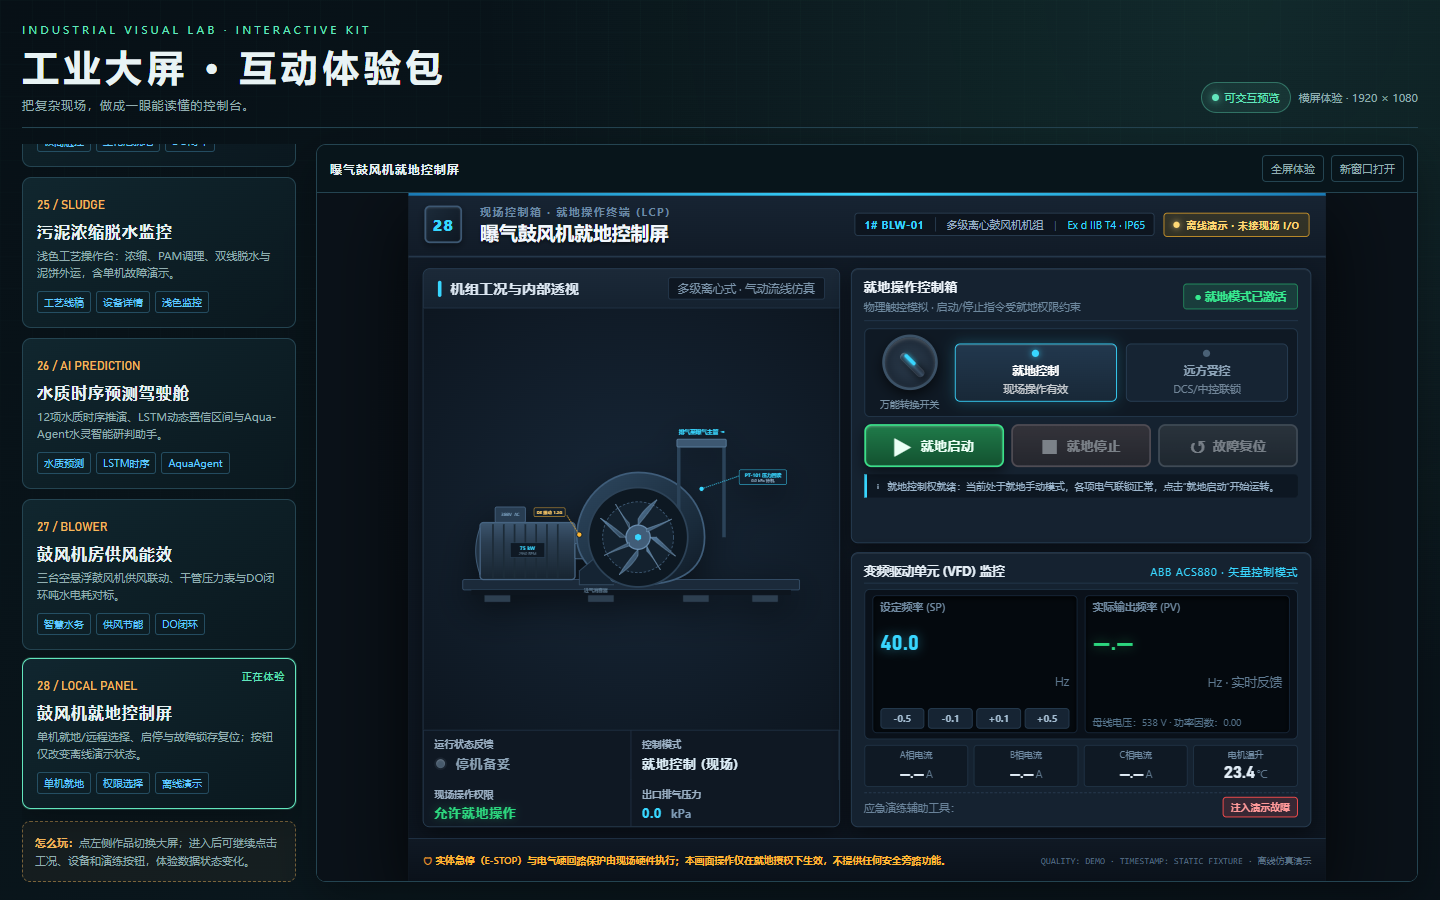
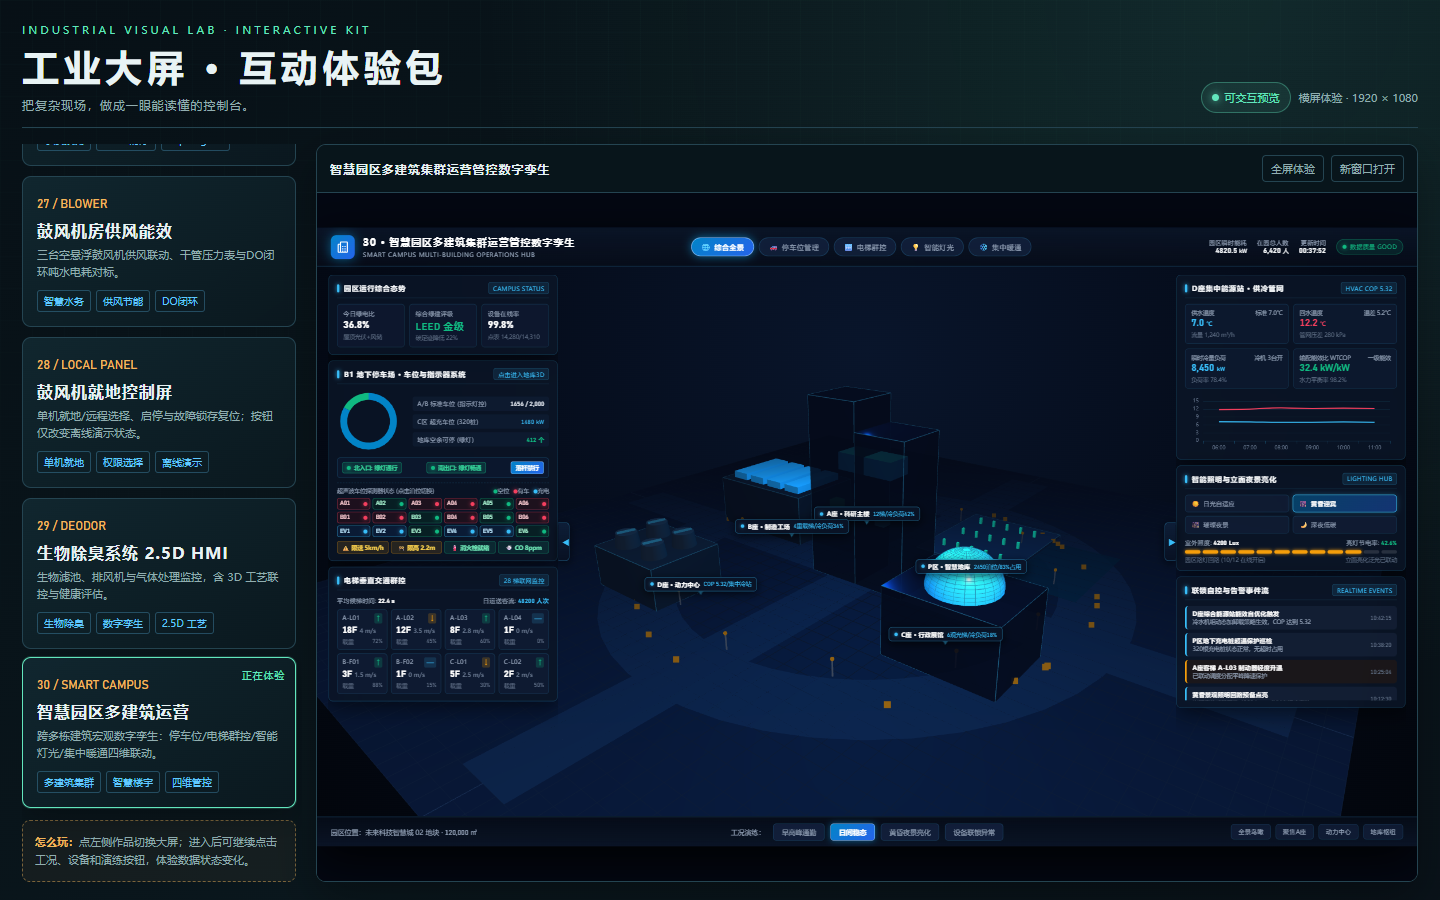
docs(showcase): 集成29与30号场景至体验包并同步回归测试与中英文画廊

diff --git a/apps/showcase/index.html b/apps/showcase/index.html
@@ -57,6 +57,8 @@ button{font:inherit;color:inherit}
       <button class="card" data-src="../../scenarios/water-treatment/26-东湖智慧水质时序预测与Aqua-Agent数字驾驶舱.html" data-title="东湖智慧水质时序预测与Aqua-Agent数字驾驶舱"><span class="index">26 / AI PREDICTION</span><h2>水质时序预测驾驶舱</h2><p>12项水质时序推演、LSTM动态置信区间与Aqua-Agent水灵智能研判助手。</p><div class="tags"><span>水质预测</span><span>LSTM时序</span><span>AquaAgent</span></div></button>
       <button class="card" data-src="../../scenarios/water-treatment/27-曝气鼓风机房智能供风能效驾驶舱.html" data-title="曝气鼓风机房智能供风能效驾驶舱"><span class="index">27 / BLOWER</span><h2>鼓风机房供风能效</h2><p>三台空悬浮鼓风机供风联动、干管压力表与DO闭环吨水电耗对标。</p><div class="tags"><span>智慧水务</span><span>供风节能</span><span>DO闭环</span></div></button>
       <button class="card" data-src="../../scenarios/water-treatment/28-曝气鼓风机就地控制屏.html" data-title="曝气鼓风机就地控制屏"><span class="index">28 / LOCAL PANEL</span><h2>鼓风机就地控制屏</h2><p>单机就地/远程选择、启停与故障锁存复位；按钮仅改变离线演示状态。</p><div class="tags"><span>单机就地</span><span>权限选择</span><span>离线演示</span></div></button>
+      <button class="card" data-src="../../scenarios/water-treatment/29-生物除臭系统2.5D数字孪生HMI.html" data-title="生物除臭系统 2.5D 数字孪生 HMI"><span class="index">29 / DEODOR</span><h2>生物除臭系统 2.5D HMI</h2><p>生物滤池、排风机与气体处理监控，含 3D 工艺联控与健康评估。</p><div class="tags"><span>生物除臭</span><span>数字孪生</span><span>2.5D 工艺</span></div></button>
+      <button class="card" data-src="../../scenarios/building-automation/30-智慧园区多建筑集群运营管控数字孪生.html" data-title="智慧园区多建筑集群运营管控数字孪生"><span class="index">30 / SMART CAMPUS</span><h2>智慧园区多建筑运营</h2><p>跨多栋建筑宏观数字孪生：停车位/电梯群控/智能灯光/集中暖通四维联动。</p><div class="tags"><span>多建筑集群</span><span>智慧楼宇</span><span>四维管控</span></div></button>
       <div class="tip"><b>怎么玩：</b>点左侧作品切换大屏；进入后可继续点击工况、设备和演练按钮，体验数据状态变化。</div>
     </aside>
     <section class="stage" id="stage"><div class="stage-bar"><strong id="stageTitle">A²/O 脱氮除磷精准调控驾驶舱</strong><div class="stage-actions"><button id="enterFullscreen">全屏体验</button><button id="openNew">新窗口打开</button></div></div><div class="viewport"><iframe id="screen" title="工业大屏互动预览" src="../../scenarios/water-treatment/01-A2O脱氮除磷精准调控驾驶舱.html"></iframe><div class="empty" id="empty" hidden>正在加载互动大屏…</div></div></section>

diff --git a/tests/interaction_check.py b/tests/interaction_check.py
@@ -605,6 +605,7 @@ with sync_playwright() as playwright:
         assert p.get_by_role("button", name="频率加 0.5 赫兹").is_enabled()
 
         p.set_viewport_size({"width": 1024, "height": 768})
+        p.wait_for_timeout(300)
         compact = p.locator("#screen").bounding_box()
         assert compact and compact["width"] == 1024 and compact["height"] == 768
         for selector in [".frequency-panel", ".command-grid", ".signal-panel", ".bottom-bar"]:
@@ -628,12 +629,12 @@ with sync_playwright() as playwright:
     showcase.route("http://**/*", lambda route: route.abort())
     showcase.route("https://**/*", lambda route: route.abort())
     showcase.goto((ROOT / "apps" / "showcase" / "index.html").as_uri(), wait_until="networkidle")
-    assert showcase.locator(".card").count() == 28
-    latest_card = showcase.locator('.card[data-src*="28-"]')
+    assert showcase.locator(".card").count() == 30
+    latest_card = showcase.locator('.card[data-src*="30-"]')
     latest_card.scroll_into_view_if_needed()
     assert latest_card.is_visible()
     latest_card.click()
-    assert "就地控制屏" in showcase.locator("#stageTitle").inner_text()
+    assert "多建筑" in showcase.locator("#stageTitle").inner_text()
     portrait = browser.new_page(viewport={"width": 390, "height": 844})
     portrait.goto((ROOT / "apps" / "showcase" / "index.html").as_uri(), wait_until="domcontentloaded")
     assert portrait.locator(".rotate").is_visible()

diff --git a/README.md b/README.md
@@ -1,6 +1,6 @@
 # Industrial Dashboard Studio
 
-> 工业大屏产品化工作区 · 28 套离线可运行样板 + 可复用运行时 + SCADA 设计器 + 6 个可交付 Skill
+> 工业大屏产品化工作区 · 30 套离线可运行样板 + 可复用运行时 + SCADA 设计器 + 6 个可交付 Skill
 
 [![License: MIT](https://img.shields.io/badge/License-MIT-blue.svg)](LICENSE)
 [![Canvas: 1920×1080](https://img.shields.io/badge/canvas-1920%C3%971080-0ea5e9)](docs/architecture.md)
@@ -36,11 +36,11 @@
 
 | 入口 | 预览 |
 |------|------|
-| **Showcase 横屏互动入口 (28 套全量)** `apps/showcase/index.html` | ![showcase](docs/screenshots/showcase.png) |
+| **Showcase 横屏互动入口 (30 套全量)** `apps/showcase/index.html` | ![showcase](docs/screenshots/showcase.png) |
 | **SCADA 场景设计器** `apps/scada-designer/index.html` | ![scada-designer](docs/screenshots/scada-designer.png) |
 
 <details open>
-<summary><b>展开查看 28 套场景全量分类与截图</b></summary>
+<summary><b>展开查看 30 套场景全量分类与截图</b></summary>
 
 ### 单机就地操作 · 鼓风机控制屏（最新上线）
 
@@ -78,6 +78,7 @@
 | 场景 | 文件 | 预览 |
 |------|------|------|
 | 22 智能楼宇自控与空间微气候数字孪生 | `scenarios/building-automation/22-智能楼宇自控与空间微气候数字孪生.html` | ![22](docs/screenshots/22-building-automation.png) |
+| 30 智慧园区多建筑集群运营管控数字孪生 | `scenarios/building-automation/30-智慧园区多建筑集群运营管控数字孪生.html` | ![30](docs/screenshots/30-smart-campus-multi-building.png) |
 
 ### 水处理 · 工艺驾驶舱与全流程 SCADA
 
@@ -106,6 +107,7 @@
 | 18 园区供水管网多节点平衡监控数字看板 | `scenarios/water-treatment/18-园区供水管网多节点平衡监控数字看板.html` | 水力平衡拓扑 |
 | 19 PAM 三槽式全自动加药熟化微单元 | `scenarios/water-treatment/19-PAM三槽式全自动加药熟化微单元.html` | 精密加药微单元 |
 | 20 紫外线渠式消毒与余氯闭环调控微单元 | `scenarios/water-treatment/20-紫外线渠式消毒与余氯闭环调控微单元.html` | 明渠紫外消毒 |
+| 29 生物除臭系统 2.5D 数字孪生 HMI | `scenarios/water-treatment/29-生物除臭系统2.5D数字孪生HMI.html` | ![29](docs/screenshots/29-bio-deodorization-twin.png) |
 
 ### 设备维护 / 反应安全 / 连续分离
 
@@ -261,7 +263,7 @@ open apps/scada-designer/index.html
 - **架构**：5 路粗格栅渠液位差监视、4 台大流量混流提升泵与 7 台潜污泵群控，集成工业级西门子/博途风格 Faceplate 微操弹窗与 SBO（Select-Before-Operate）双重确认防误闭环。
 - **文件**：`scenarios/water-treatment/21-粗格栅及进水提升泵房数字孪生SCADA.html`
 
-### 22 智能楼宇自控与空间微气候数字孪生（全新新增）
+### 22 智能楼宇自控与空间微气候数字孪生（全新全面精细化重构）
 - **布局**：`spatial-twin` — 顶部楼层与动环状态栏，中央 2.5D/3D 空间孪生视界，左翼能源动力与舒适度面板，右翼 iCooling 智控与空间微气候中枢，右下垂直楼层快速滑块，左右侧栏支持平滑无折行展开/收拢。
 - **信息问题**：高层建筑微气候分布如何、是否存在局部热岛过热、VAV 末端与冷热源系统如何动态匹配、IDC 机房动环与冷源动力机组运行效能如何。
 - **多楼层专属三维切面解耦**：
@@ -274,13 +276,17 @@ open apps/scada-designer/index.html
 - **文件**：`scenarios/building-automation/22-智能楼宇自控与空间微气候数字孪生.html`
 
 <details open>
-<summary><b>查看 22 号场景多切面与微气候孪生画廊</b></summary>
+<summary><b>查看 22 号场景四大精细化三维切面画廊</b></summary>
 
-| 27F 智慧办公 · 3D 温度场等温云图 | 2F IDC 核心数据机房 · 冷通道密封 | -1F 地下冷源动力站 · 离心冷机泵组 |
-|---|---|---|
-| ![22-office](docs/screenshots/22-building-automation.png) | ![22-datacenter](docs/screenshots/22-datacenter.png) | ![22-chiller](docs/screenshots/22-chiller-plant.png) |
+| 全楼综合总览 · 摩天大楼与园区建筑群 | 27F 智慧办公 · 完整室内与 3D 等温云图 |
+|---|---|
+| ![22-tower](docs/screenshots/states/22-state-building-tower.png) | ![22-office](docs/screenshots/22-building-automation.png) |
 
-> 垂直楼层选择器支持在全景、32F、27F（办公）、2F（IDC）、-1F（冷源）间平滑切换视角与专属三维场景，并无缝联动左侧动环数据与右侧 iCooling 控制中枢。
+| 2F IDC 核心数据机房 · 冷通道微模块与配电 | -1F 地下冷源动力站 · 离心冷机泵组闭环管网 |
+|---|---|
+| ![22-datacenter](docs/screenshots/22-datacenter.png) | ![22-chiller](docs/screenshots/22-chiller-plant.png) |
+
+> 垂直楼层选择器与顶部药丸导航支持在全楼综合大厦、27F智慧办公、2F核心机房、-1F冷源动力站间平滑飞跃切换相机与专属精细化三维场景，并实时联动左侧 BAS 矩阵与右侧 DDC 闭环微控中枢。
 
 </details>
 
@@ -438,6 +444,53 @@ open apps/scada-designer/index.html
 
 ## 应用入口
 
+### 29 生物除臭系统 2.5D 数字孪生 HMI（生物滤池除臭 · 废气净化工况全流程）
+- **定位**：面向污水厂恶臭废气处理工段与空间环保安全调控的 2.5D 数字孪生 HMI。采用工业质感浅灰底色（`#dfe8f3`）与清爽天蓝，将预洗涤喷淋塔、生物滴滤池、填料滤层阻力、引风机与排气筒监控融为一体。
+- **核心技术与工业机制**：
+  1. **Three.js 2.5D 轴测工段建模**：精细呈现除臭风管网流向、生物滴滤箱体、循环喷淋水流与填料床，支持三维旋转视角与工段部件高亮聚焦；
+  2. **多级微操面板与回路调节**：预洗水泵启停、排风机变频调速（50Hz / 60%）、循环喷淋泵联控与补水阀度调节；
+  3. **废气关键理化指标矩阵**：进出风 H2S（硫化氢）、NH3（氨气）浓度实时脱臭净化率计算（≥99.2%）、滤床压差（ΔP 180Pa）、喷淋液 pH 与循环箱液位；
+  4. **全工段健康评估雷达**：设备健康度综合评分（96 分）、振动/温升/腐蚀裕度多维度指标直读。
+- **文件**：`scenarios/water-treatment/29-生物除臭系统2.5D数字孪生HMI.html`
+
+<details open>
+<summary><b>查看 29 号生物除臭系统 2.5D 数字孪生交互画廊</b></summary>
+
+| 2.5D 数字孪生全景主视图 (1920×1080) |
+| :---: |
+| ![29-main](docs/screenshots/29-bio-deodorization-twin.png) |
+
+> 100% 离线闭环运行，支持 2.5D 漫游交互与微操指令下发演示。
+
+</details>
+
+---
+
+### 30 智慧园区多建筑集群运营管控数字孪生（四维协同 · 园区综合宏观态势）
+- **定位**：面向智慧科技园区与大型企业总部基地运营指挥中枢的“多建筑集群数字化全息管控平台”。跨越单体建筑视角，将“停车引导、电梯群控、智能照明、集中暖通”四大核心基础设施系统融汇于一体。
+- **核心技术与工业机制**：
+  1. **Three.js 园区三维建筑集群全景孪生**：立体构建研发大厦 A/B、总部中心、会议展厅与地下车库建筑群，带道路流光动效、天气系统与建筑微透视；
+  2. **四维运营协同联动视界**：
+     - **智慧停车中枢**：出入口道闸流量、剩余车位动态引导、车位周转率与防拥堵预警；
+     - **电梯垂直调度群控**：多部客梯/货梯楼层位置、满载率与高峰等候时间优化；
+     - **空间微气候与集中冷暖**：冷机负荷对标、水力管网平衡与室内恒温舒适度指数（PMV）；
+     - **全域节能照明矩阵**：光照度自适应感应、定时策略与能耗分项计量；
+  3. **碳排双控与综合能效驾驶舱**：建筑集群总用电/水耗/气耗综合折标煤监测，标定动态碳排放裕度。
+- **文件**：`scenarios/building-automation/30-智慧园区多建筑集群运营管控数字孪生.html`
+
+<details open>
+<summary><b>查看 30 号智慧园区多建筑集群运营管控画廊</b></summary>
+
+| 园区多建筑集群宏观数字孪生全景 (1920×1080) |
+| :---: |
+| ![30-main](docs/screenshots/30-smart-campus-multi-building.png) |
+
+> 融合宏观园区沙盘与微观机电设备运行状态，构建真正端到端的多维运营闭环。
+
+</details>
+
+---
+
 ### Showcase 横屏互动体验入口 `apps/showcase/index.html`
 - 三场景切换、横屏方向提示、全屏体验、1920×1080 等比缩放
 - 源码 `12304` 字节，零构建，离线可直接投标演示
@@ -485,8 +538,8 @@ apps/
   showcase/            # 横屏互动体验入口
   scada-designer/      # SCADA 场景设计器
 scenarios/
-  building-automation/ # 22 智能楼宇自控与空间微气候数字孪生
-  water-treatment/     # 01,04,05,06,07,08,09,10,11,12,13,14,16,17,18,19,20,21,24,25,26,27,28 (水务全流程，含25号污泥脱水、26号水质预测、27号鼓风供风能效与28号就地控制屏)
+  building-automation/ # 22 智能楼宇自控与空间微气候数字孪生、30 智慧园区多建筑集群运营管控
+  water-treatment/     # 01,04,05,06,07,08,09,10,11,12,13,14,16,17,18,19,20,21,24,25,26,27,28,29 (水务全流程，含25号污泥脱水、26号水质预测、27号鼓风供风能效与28号就地控制屏)
   predictive-maintenance/ # 02 关键机组预测性维护
   reactor-safety/      # 03 反应釜热失控安全联锁
   process-control/     # 15 连续分离工艺驾驶舱, 23 现场DCS就地控制屏

diff --git a/README_EN.md b/README_EN.md
@@ -1,6 +1,6 @@
 # Industrial Dashboard Studio
 
-> Offline-first productization workspace for industrial dashboards · 28 ready-to-run templates + reusable runtime + SCADA designer + 6 deliverable Skills
+> Offline-first productization workspace for industrial dashboards · 30 ready-to-run templates + reusable runtime + SCADA designer + 6 deliverable Skills
 
 [![License: MIT](https://img.shields.io/badge/License-MIT-blue.svg)](LICENSE)
 [![Canvas: 1920×1080](https://img.shields.io/badge/canvas-1920%C3%971080-0ea5e9)](docs/architecture.md)
@@ -36,11 +36,11 @@
 
 | Entry | Preview |
 |------|------|
-| **Showcase landscape entry (All 28 Scenarios)** `apps/showcase/index.html` | ![showcase](docs/screenshots/showcase.png) |
+| **Showcase landscape entry (All 30 Scenarios)** `apps/showcase/index.html` | ![showcase](docs/screenshots/showcase.png) |
 | **SCADA scenario designer** `apps/scada-designer/index.html` | ![scada-designer](docs/screenshots/scada-designer.png) |
 
 <details open>
-<summary><b>Expand: All 28 scenario categories & screenshots</b></summary>
+<summary><b>Expand: All 29 scenario categories & screenshots</b></summary>
 
 ### Single-equipment blower local panel (newest)
 
@@ -106,6 +106,7 @@
 | 18 Park water network multi-node balance dashboard | `scenarios/water-treatment/18-园区供水管网多节点平衡监控数字看板.html` | Hydraulic Balance Topology |
 | 19 PAM three-tank automatic dosing micro unit | `scenarios/water-treatment/19-PAM三槽式全自动加药熟化微单元.html` | Precision Dosing Unit |
 | 20 UV channel disinfection & residual chlorine micro unit | `scenarios/water-treatment/20-紫外线渠式消毒与余氯闭环调控微单元.html` | Open Channel UV Disinfection |
+| 29 Biological Deodorization System 2.5D Digital Twin HMI | `scenarios/water-treatment/29-生物除臭系统2.5D数字孪生HMI.html` | ![29](docs/screenshots/29-bio-deodorization-twin.png) |
 
 ### Asset Maintenance / Safety / Continuous Process
 
@@ -276,11 +277,15 @@ open apps/scada-designer/index.html
 <details open>
 <summary><b>View Scenario 22 multi-level spatial digital twin gallery</b></summary>
 
-| 27F Smart Office · 3D Thermal Heatmap | 2F IDC Data Center · Cold Aisle Containment | -1F Chiller Plant · Centrifugal Pumps |
-|---|---|---|
-| ![22-office](docs/screenshots/22-building-automation.png) | ![22-datacenter](docs/screenshots/22-datacenter.png) | ![22-chiller](docs/screenshots/22-chiller-plant.png) |
+| Overall Campus View · Skyscraper Tower & Complex | 27F Smart Office · Full Interior & 3D Heatmap |
+|---|---|
+| ![22-tower](docs/screenshots/states/22-state-building-tower.png) | ![22-office](docs/screenshots/22-building-automation.png) |
 
-> Seamlessly switch camera perspectives and dedicated 3D scenes across All-Floor, 32F, 27F (Office), 2F (IDC), and -1F (Chiller) via the vertical floor slider, with instant data telemetry binding.
+| 2F IDC Core Data Center · Cold Aisle Modules & UPS | -1F Underground Chiller Plant · Closed-Loop Piping |
+|---|---|
+| ![22-datacenter](docs/screenshots/22-datacenter.png) | ![22-chiller](docs/screenshots/22-chiller-plant.png) |
+
+> Vertical floor selector and pill navigation seamlessly transition between the 32-story skyscraper tower, 27F smart office interior, 2F IDC micro-modules, and -1F chiller plant, providing live DDC closed-loop controls.
 
 </details>
 
@@ -438,6 +443,38 @@ open apps/scada-designer/index.html
 ---
 
 ## App entries
+
+### 29 Biological Deodorization System 2.5D Digital Twin HMI
+- **Positioning**: 2.5D digital twin HMI for sewage odor treatment and environmental compliance. Utilizes clean industrial light gray (`#dfe8f3`) styling with biological filter beds, spray scrubbers, induced draft fan, and emission stacks.
+- **Key Features**: Three.js isometric piping topology, multi-stage micro-manipulation (fan frequency, chemical dosing pumps), live H2S/NH3 odor reduction efficiency calculation (≥99.2%), and holistic subsystem health radar scores.
+- **File**: `scenarios/water-treatment/29-生物除臭系统2.5D数字孪生HMI.html`
+
+<details open>
+<summary><b>View Scenario 29 Biological Deodorization gallery</b></summary>
+
+| 2.5D Digital Twin Native View (1920×1080) |
+| :---: |
+| ![29-main](docs/screenshots/29-bio-deodorization-twin.png) |
+
+</details>
+
+---
+
+### 30 Smart Campus Multi-Building Operations Digital Twin
+- **Positioning**: Macro-scale digital operations platform for multi-building enterprise campuses and high-tech parks.
+- **Key Features**: Campus 3D digital sandbox, 4-dimensional synergistic operations (smart parking guidance, elevator group control, intelligent lighting, and central HVAC energy balance), with carbon footprint dual-control monitoring.
+- **File**: `scenarios/building-automation/30-智慧园区多建筑集群运营管控数字孪生.html`
+
+<details open>
+<summary><b>View Scenario 30 Smart Campus Operations gallery</b></summary>
+
+| Campus Multi-Building Digital Twin Overview (1920×1080) |
+| :---: |
+| ![30-main](docs/screenshots/30-smart-campus-multi-building.png) |
+
+</details>
+
+---
 
 ### Showcase landscape entry `apps/showcase/index.html`
 - Three-scenario switching, landscape orientation hints, fullscreen mode, 1920×1080 proportional scaling
